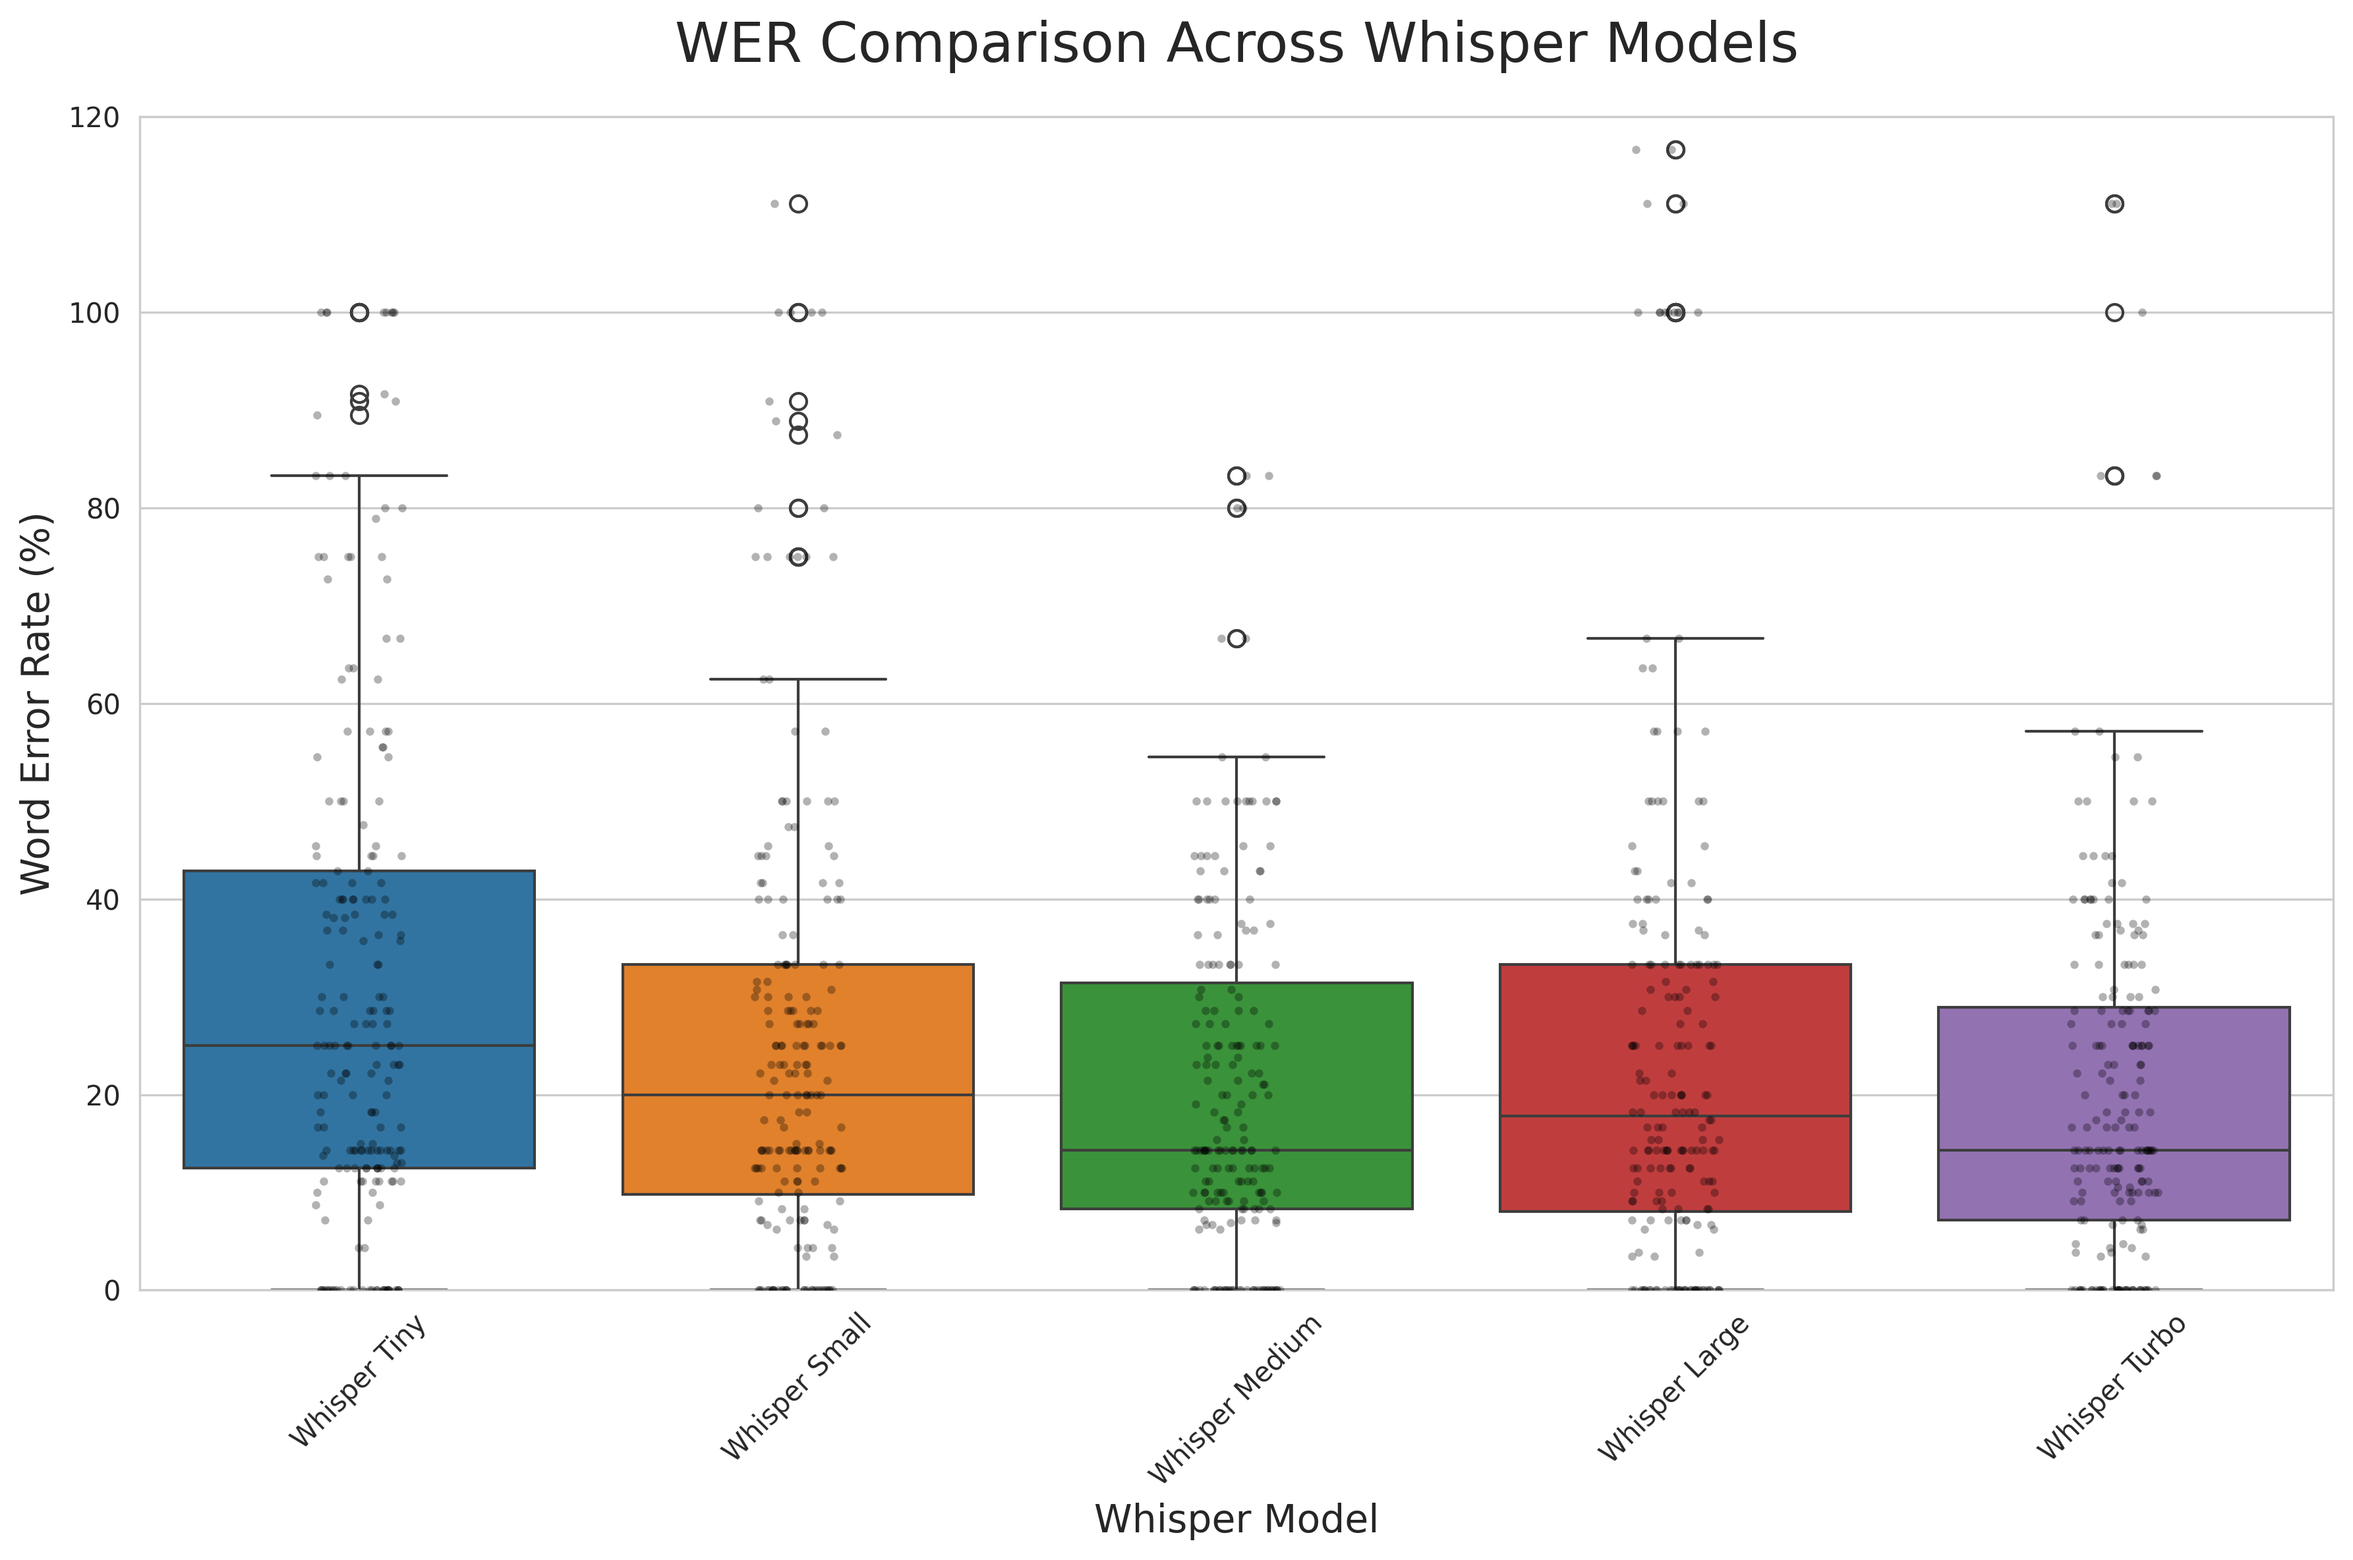
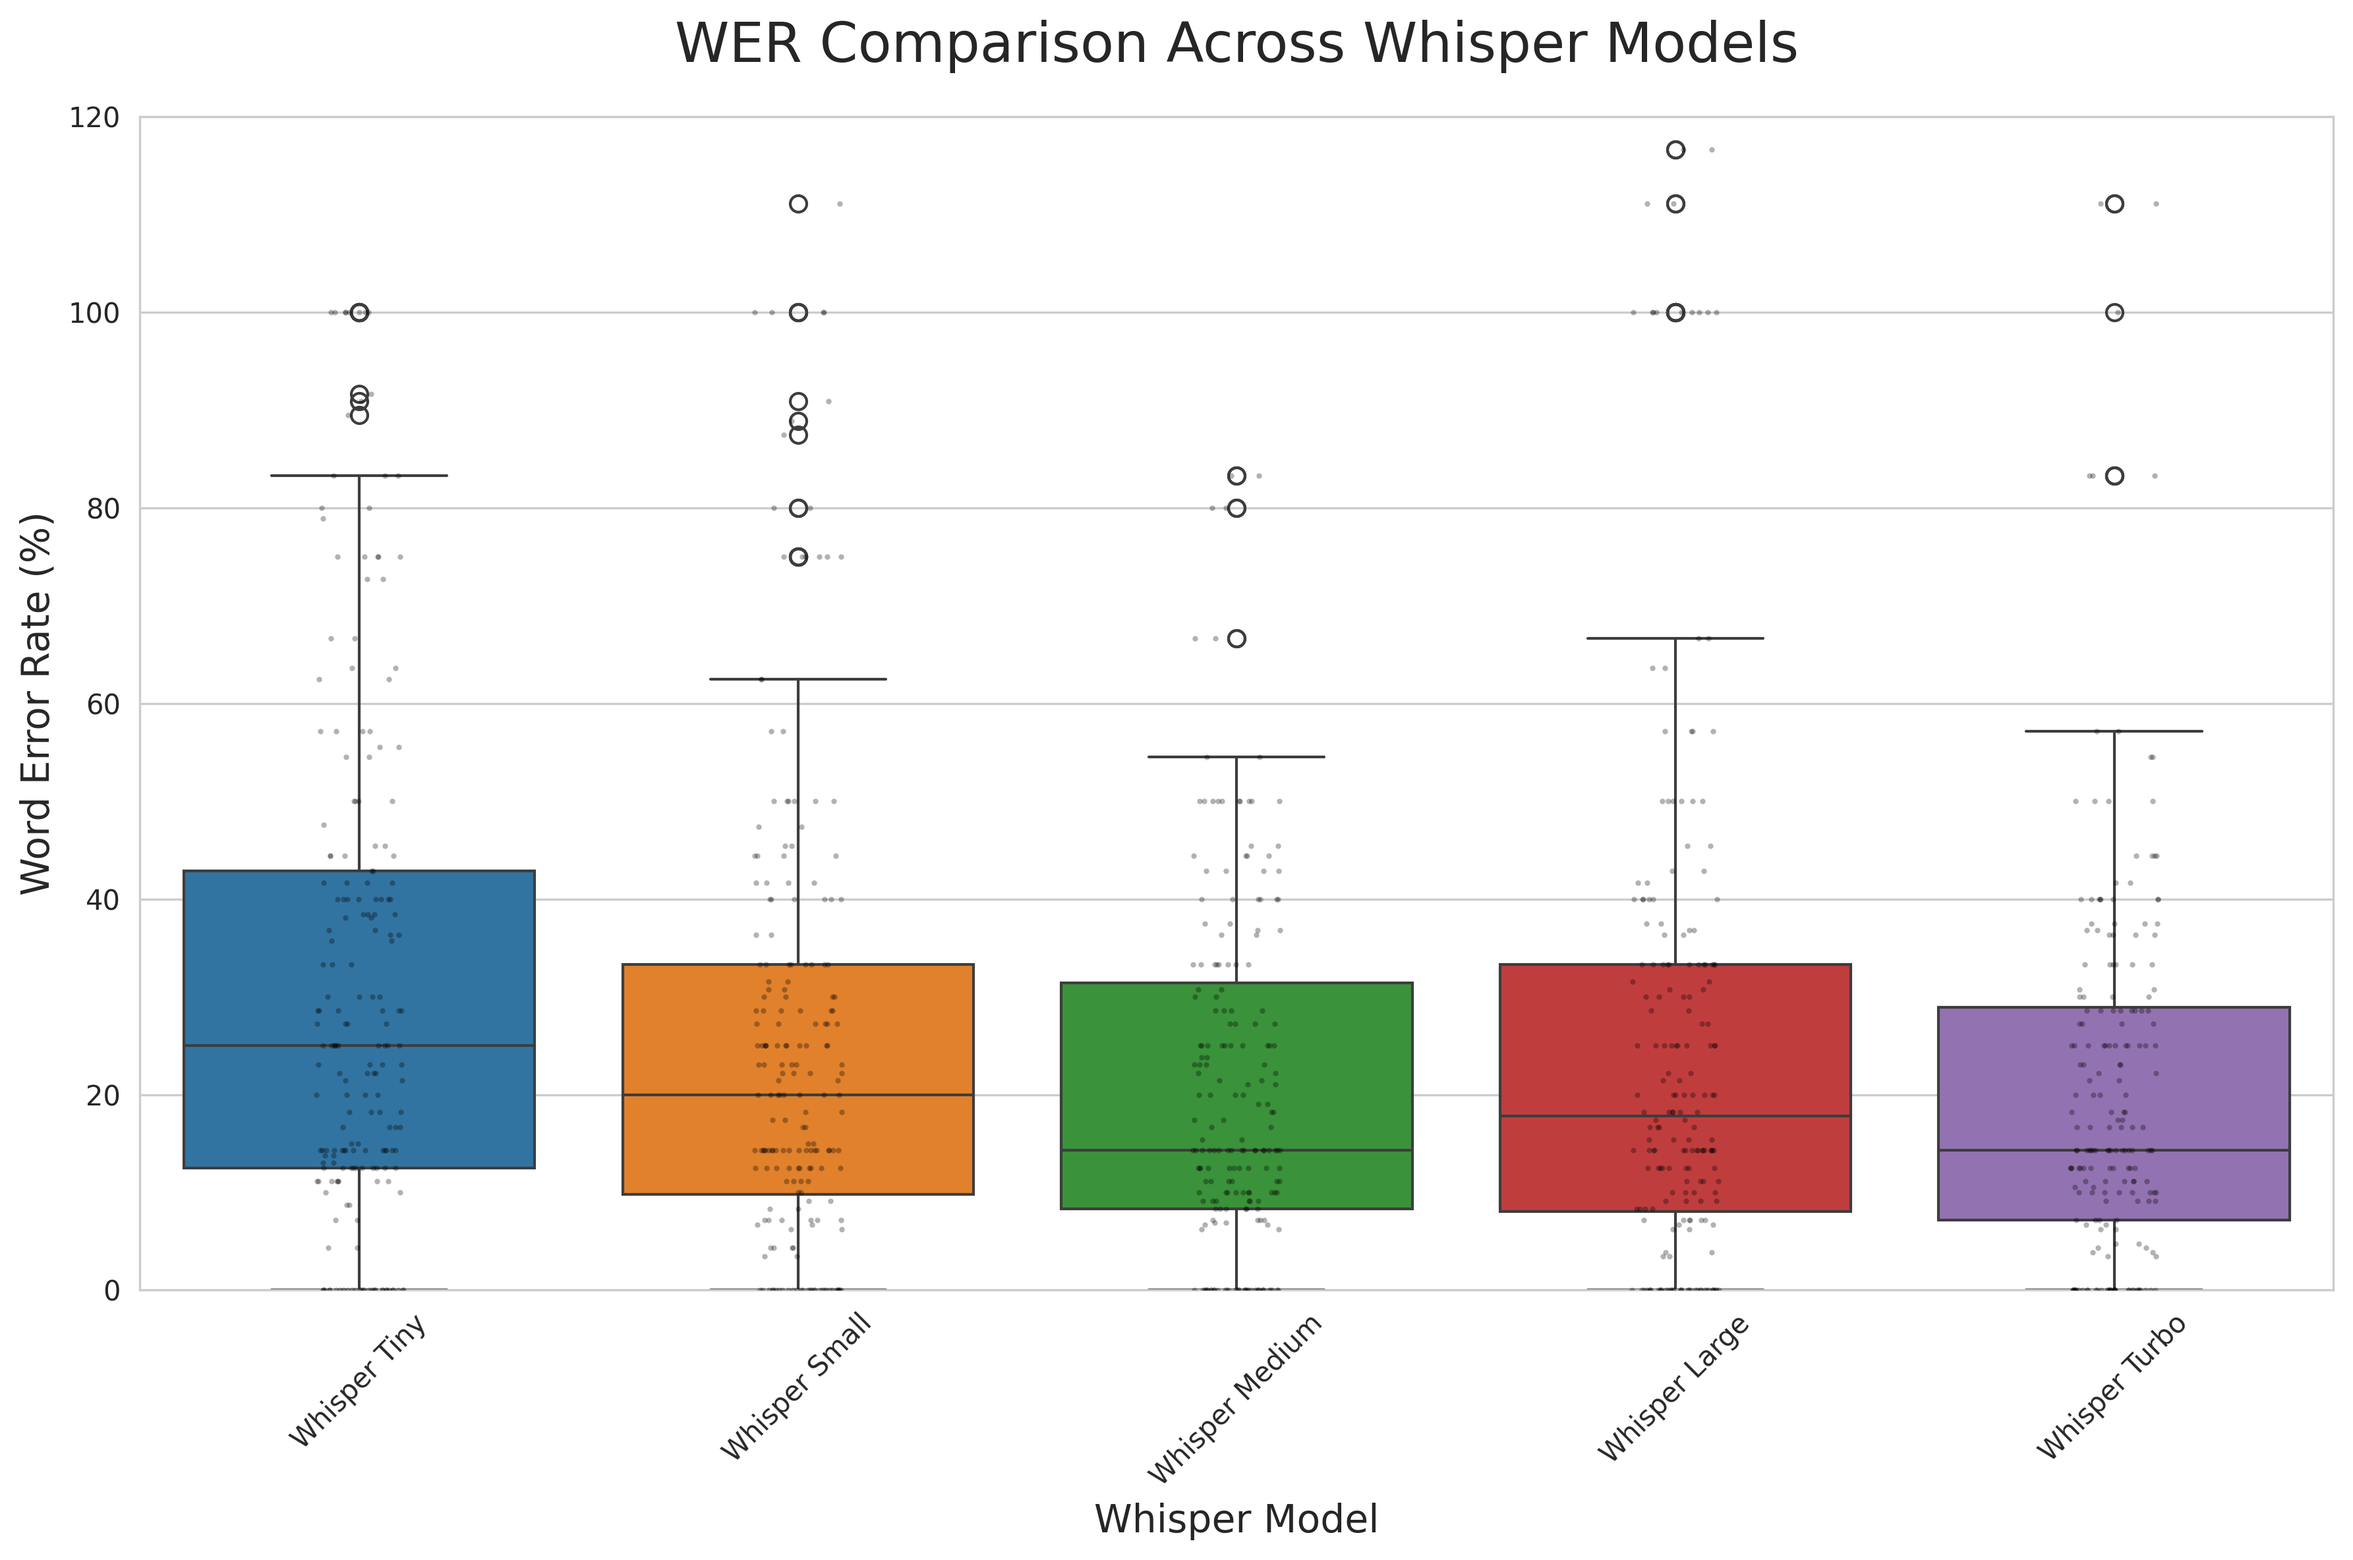
improving metrics computation

diff --git a/compare_model_transcripts.py b/compare_model_transcripts.py
@@ -95,24 +95,98 @@ df_long['Model'] = pd.Categorical(df_long['Model'],
                                   categories=['Whisper Tiny', 'Whisper Small', 'Whisper Medium', 'Whisper Large', 'Whisper Turbo',],
                                   ordered=True)
 
-# Create matplotlib boxplot
+# Create multiple visualizations for different scales
+import matplotlib.pyplot as plt
+from matplotlib.gridspec import GridSpec
+
+# Create a figure with multiple subplots
+fig = plt.figure(figsize=(20, 12))
+gs = GridSpec(2, 3, figure=fig, hspace=0.3, wspace=0.3)
+
+# 1. Boxplot (good for current scale, ~200 points)
+ax1 = fig.add_subplot(gs[0, 0])
+sns.set_style("whitegrid")
+sns.boxplot(data=df_long, x='Model', y='WER', hue='Model', ax=ax1)
+sns.stripplot(data=df_long, x='Model', y='WER', color='black', alpha=0.3, size=2, ax=ax1)
+ax1.set_title("WER Comparison - Boxplot", fontsize=14, pad=15)
+ax1.set_xlabel("Whisper Model", fontsize=12)
+ax1.set_ylabel("Word Error Rate (%)", fontsize=12)
+ax1.tick_params(axis='x', rotation=45)
+ax1.set_ylim(0, min(120, df_long['WER'].max() + 10))
+ax1.legend().remove()
+
+# 2. Violin plot (better for distribution shape)
+ax2 = fig.add_subplot(gs[0, 1])
+sns.violinplot(data=df_long, x='Model', y='WER', hue='Model', ax=ax2)
+ax2.set_title("WER Distribution - Violin Plot", fontsize=14, pad=15)
+ax2.set_xlabel("Whisper Model", fontsize=12)
+ax2.set_ylabel("Word Error Rate (%)", fontsize=12)
+ax2.tick_params(axis='x', rotation=45)
+ax2.set_ylim(0, min(120, df_long['WER'].max() + 10))
+ax2.legend().remove()
+
+# 3. Kernel Density Plot (much better for overlapping distributions)
+ax3 = fig.add_subplot(gs[0, 2])
+# Define colors to match seaborn's default palette
+colors = sns.color_palette("husl", len(df_long['Model'].unique()))
+for i, model in enumerate(df_long['Model'].unique()):
+    model_data = df_long[df_long['Model'] == model]['WER']
+    model_data = model_data.dropna()  # Remove NaN values
+    if len(model_data) > 0:  # Only plot if we have data
+        ax3.hist(model_data, alpha=0.3, label=model, bins=15, density=True, 
+                histtype='step', linewidth=2, edgecolor=colors[i], color=colors[i])
+ax3.set_title("WER Distribution - Density Plot", fontsize=14, pad=15)
+ax3.set_xlabel("Word Error Rate (%)", fontsize=12)
+ax3.set_ylabel("Density", fontsize=12)
+ax3.legend()
+
+# 4. Summary statistics table
+ax4 = fig.add_subplot(gs[1, :])
+ax4.axis('off')
+
+# Calculate summary statistics
+summary_stats = df_long.groupby('Model')['WER'].agg(['count', 'mean', 'std', 'min', 'max', 'median']).round(2)
+summary_stats.columns = ['Count', 'Mean', 'Std Dev', 'Min', 'Max', 'Median']
+
+# Create table
+table_data = []
+for model in summary_stats.index:
+    row = [model] + [f"{summary_stats.loc[model, col]:.2f}" for col in summary_stats.columns]
+    table_data.append(row)
+
+table = ax4.table(cellText=table_data,
+                 colLabels=['Model'] + list(summary_stats.columns),
+                 cellLoc='center',
+                 loc='center',
+                 bbox=[0, 0, 1, 1])
+table.auto_set_font_size(False)
+table.set_fontsize(10)
+table.scale(1, 2)
+ax4.set_title("Summary Statistics", fontsize=16, pad=20)
+
+plt.suptitle("Comprehensive WER Analysis Across Whisper Models", fontsize=20, y=0.98)
+plt.tight_layout()
+
+# Save the comprehensive plot
+plt.savefig('analysisResults/hani89_asr_data_wer_comprehensive.png', dpi=300, bbox_inches='tight')
+plt.close()
+
+# Also create a simple boxplot for quick reference
 plt.figure(figsize=(12, 8))
 sns.set_style("whitegrid")
 sns.boxplot(data=df_long, x='Model', y='WER', hue='Model')
-sns.stripplot(data=df_long, x='Model', y='WER', color='black', alpha=0.3, size=3)
+sns.stripplot(data=df_long, x='Model', y='WER', color='black', alpha=0.3, size=2)
 
 plt.title("WER Comparison Across Whisper Models", fontsize=20, pad=20)
 plt.xlabel("Whisper Model", fontsize=14)
 plt.ylabel("Word Error Rate (%)", fontsize=14)
 plt.xticks(rotation=45)
 plt.ylim(0, min(120, df_long['WER'].max() + 10))
-plt.legend().remove()  # Remove legend since colors match x-axis labels
+plt.legend().remove()
 
 plt.tight_layout()
-
-# Save as PNG
 plt.savefig('analysisResults/hani89_asr_data_wer_boxplot.png', dpi=300, bbox_inches='tight')
-plt.close()  # Close the figure to free memory
+plt.close()
 
 # Also save the processed data with WER scores
 df.to_csv('analysisResults/hani89_asr_data_with_wer.csv', index=False)
@@ -121,6 +195,7 @@ print("Analysis complete!")
 print("Files saved:")
 print("- analysisResults/hani89_asr_data.csv (raw data)")
 print("- analysisResults/hani89_asr_data_with_wer.csv (data with WER scores)")
-print("- analysisResults/hani89_asr_data_wer_boxplot.png (static image)")
+print("- analysisResults/hani89_asr_data_wer_boxplot.png (simple boxplot)")
+print("- analysisResults/hani89_asr_data_wer_comprehensive.png (multi-panel analysis)")
 
 
